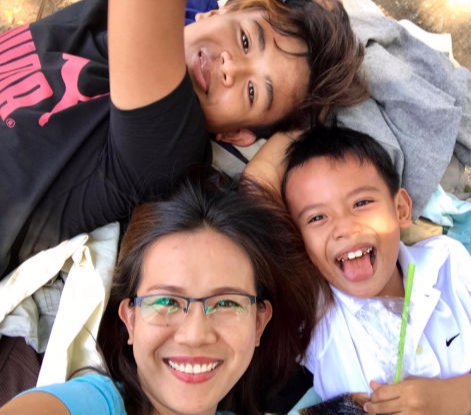
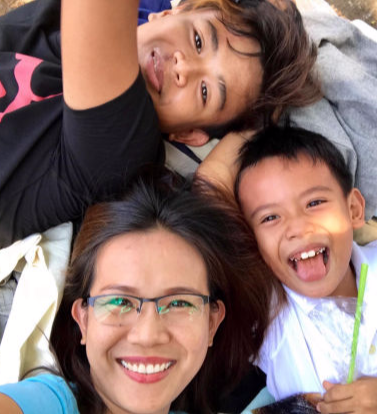
create github pages

diff --git a/index.html b/index.html
@@ -42,7 +42,7 @@ body{font-family: Roboto;}blockquote{border-color: #4ea2e3;}.display-1{font-fami
                 </div>
                 <div class="mbr-section-btn align-center"><a class="btn btn-md btn-primary display-4" href="https://rebrand.ly/cgquel" target="_blank">DONATE NOW</a>
                     <a class="btn btn-md btn-success display-4" href="index.html#content16-3">READ MORE</a></div>
-                <amp-img src="assets/images/money-1885540-640-472x316.jpg" alt="Mobirise" width="234.87698412698413" height="157" layout="responsive" class="mobirise-loader">
+                <amp-img src="assets/images/quel-family-472x415.jpg" alt="Mobirise" width="236.06746987951806" height="208" layout="responsive" class="mobirise-loader">
                     <div placeholder="" class="placeholder">
                                 <div class="mobirise-spinner">
                                     <em></em>
@@ -57,7 +57,7 @@ body{font-family: Roboto;}blockquote{border-color: #4ea2e3;}.display-1{font-fami
 
 </section>
 
-<section class="engine"><a href="https://mobirise.info/f">simple website maker</a></section><section class="content16 mbr-section article cid-riBfsO3KaD" id="content16-3">
+<section class="engine"><a href="https://mobirise.info/d">free website maker</a></section><section class="content16 mbr-section article cid-riBfsO3KaD" id="content16-3">
     
      
 
